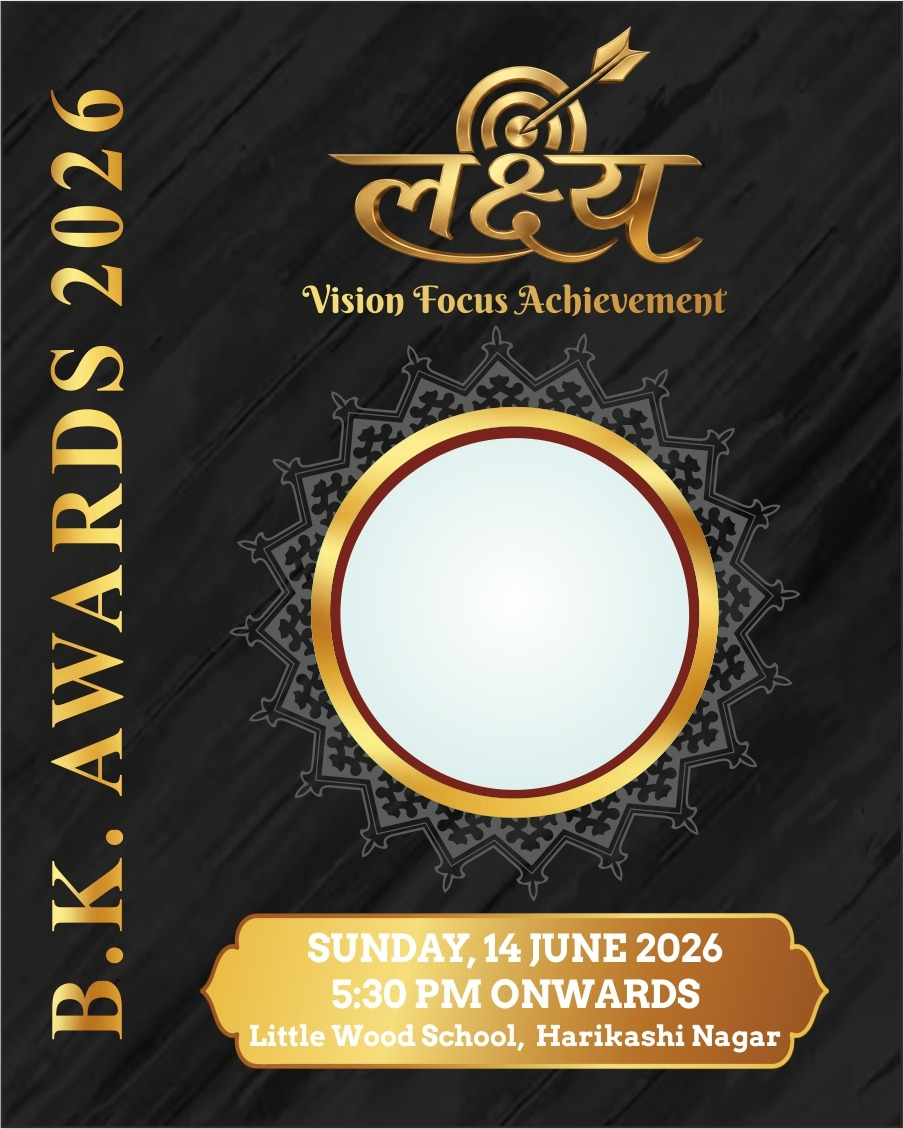
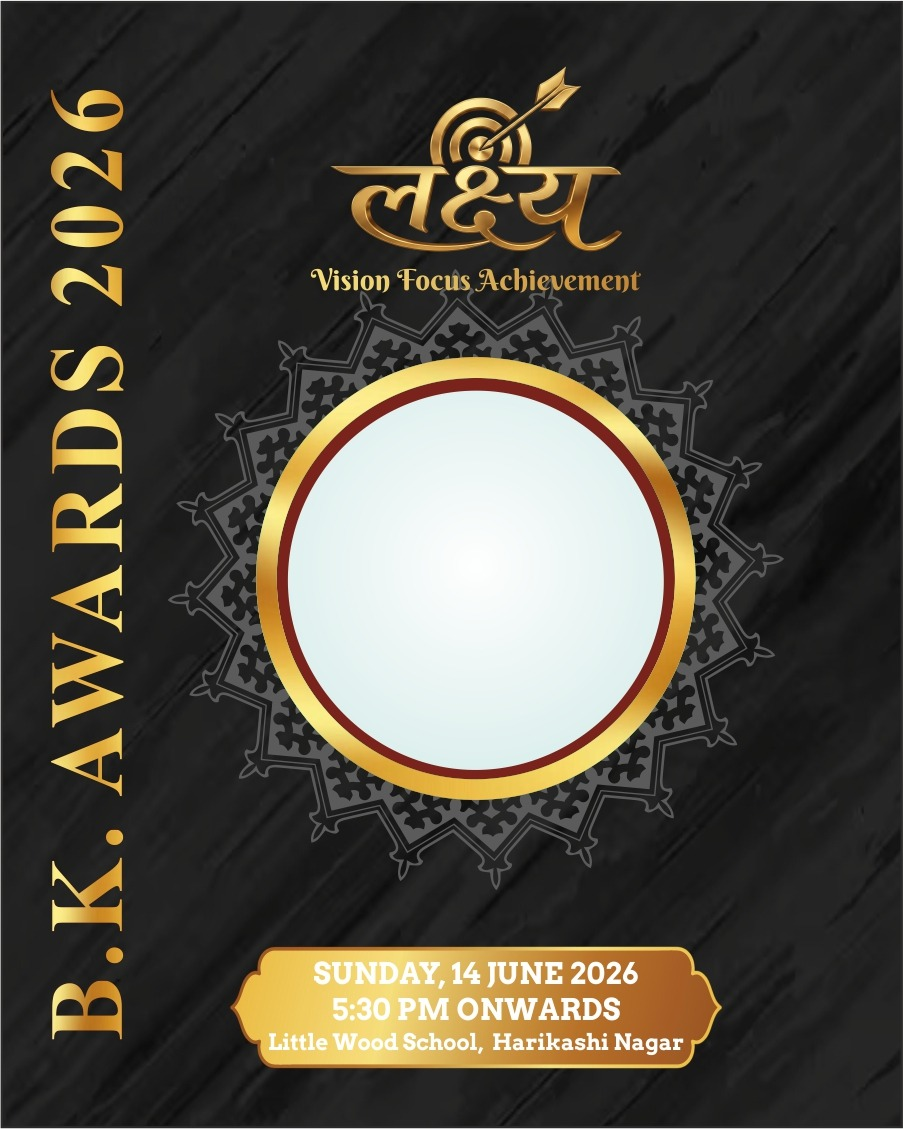
Update to new BK Awards template and tune circle geometry
- Replace bk-awards-2026.jpg with updated higher-quality template
- Adjust circle constants to fit new template's larger, repositioned ring
  (CX 0.53→0.555, CY 0.50→0.515, R 0.27→0.295)

https://claude.ai/code/session_01Ty5rYSQQBdCTj2VvG5YaPz

Changed region(s): [[0.186, 0.031, 0.9302, 0.961]]

diff --git a/dist/assets/index-DNFqWoTc.js b/dist/assets/index-DNFqWoTc.js
@@ -458,4 +458,4 @@ Please confirm my registration. 🙏`),d=`https://wa.me/${rre}?text=${u}`;return
 *Mobile:* ${t}
 
 I have successfully registered as an Anchor for BK Scholar Awards 2026.
-Please confirm my registration. 🙏`),c=`https://wa.me/${gre}?text=${i}`;return l.jsx(me,{sx:{minHeight:{xs:"50vh",md:"58vh"},display:"flex",alignItems:"center",justifyContent:"center",py:2},children:l.jsxs(te,{spacing:2,sx:{width:"100%",maxWidth:520},children:[l.jsxs($t,{elevation:0,sx:{width:"100%",textAlign:"center",borderRadius:3,border:`2px solid ${S0}`,overflow:"hidden",bgcolor:"#fff"},children:[l.jsxs(me,{sx:{background:`linear-gradient(135deg, ${S0}, #9333ea)`,py:2,px:3},children:[l.jsx(os,{sx:{fontSize:44,color:"#fff",mb:.5}}),l.jsx(H,{variant:"h6",fontWeight:800,sx:{color:"#fff"},children:"Registration Confirmed!"}),l.jsx(H,{variant:"body2",sx:{color:"#ede9fe"},children:"BK Scholar Awards 2026 — Anchor"})]}),l.jsxs(me,{sx:{p:3},children:[l.jsxs(te,{spacing:1.2,children:[l.jsxs(me,{sx:{bgcolor:"#f5f3ff",borderRadius:2,p:1.5},children:[l.jsx(H,{variant:"caption",color:"text.secondary",fontWeight:600,children:"ANCHOR NAME"}),l.jsx(H,{variant:"h6",fontWeight:800,sx:{color:"#111"},children:e})]}),r?l.jsxs(me,{sx:{bgcolor:"#faf5ff",borderRadius:2,p:1.2},children:[l.jsx(H,{variant:"caption",color:"text.secondary",fontWeight:600,children:"AGE"}),l.jsx(H,{fontWeight:700,children:r})]}):null,s?l.jsxs(me,{sx:{bgcolor:"#faf5ff",borderRadius:2,p:1.2},children:[l.jsx(H,{variant:"caption",color:"text.secondary",fontWeight:600,children:"LANGUAGE(S)"}),l.jsx(H,{fontWeight:700,children:s})]}):null,l.jsxs(me,{sx:{bgcolor:"#f8f8f8",borderRadius:2,p:1.2},children:[l.jsx(H,{variant:"caption",color:"text.secondary",fontWeight:600,children:"MOBILE"}),l.jsx(H,{fontWeight:700,children:t})]})]}),l.jsx(bn,{sx:{my:2}}),l.jsxs(Tt,{severity:"info",icon:l.jsx(ld,{}),sx:{textAlign:"left",fontSize:"0.82rem",borderRadius:2},children:[l.jsx("strong",{children:"WhatsApp confirmation"})," will be sent to your mobile number shortly. Use the ",l.jsx("em",{children:'"Click here for Confirmation"'})," button below as your proof of registration."]})]})]}),l.jsx(Ce,{fullWidth:!0,variant:"contained",startIcon:l.jsx(ld,{}),component:"a",href:c,target:"_blank",rel:"noopener noreferrer",sx:{py:1.4,borderRadius:2,textTransform:"none",fontWeight:700,fontSize:"1rem",bgcolor:"#25D366","&:hover":{bgcolor:"#1ebe5d"}},children:"Click here for Confirmation"})]})})}function vre({message:e,editToken:t}){const r=t?`${window.location.origin}/anchor-edit/${t}`:null;return l.jsx(To,{in:!0,children:l.jsxs(Tt,{severity:"warning",icon:l.jsx(h4,{}),sx:{borderRadius:2.5},action:r?l.jsx(Ce,{color:"inherit",size:"small",href:r,component:"a",startIcon:l.jsx(_a,{}),children:"Edit"}):null,children:[l.jsx("strong",{children:"Already Registered!"})," ",e]})})}function yre(){const{token:e}=RT(),t=Vi(),r=!!e,[n,a]=w.useState(x1()),[o,s]=w.useState(r),[i,c]=w.useState(!1),[u,d]=w.useState(""),[f,p]=w.useState(!1),[m,g]=w.useState(null),[h,x]=w.useState(null);w.useEffect(()=>{r&&Le.get(`/anchors/public-edit/${e}`).then(v=>{a(mre(v.data||{})),s(!1)}).catch(()=>s(!1))},[r,e]);const y=async()=>{var v,S;c(!0),d(""),x(null);try{const k=hre(n);if(r)await Le.put(`/anchors/public-edit/${e}`,k),p(!0);else{const{data:T}=await Le.post("/anchors/public-register",k);g({anchorName:o2(n)||n.fullName||"",mobile:String(n.mobile||"").replace(/\D/g,""),age:n.age||"",language:n.language||[],editToken:T.editToken||""}),p(!0)}}catch(k){const T=(v=k==null?void 0:k.response)==null?void 0:v.data;if(((S=k==null?void 0:k.response)==null?void 0:S.status)===409&&(T!=null&&T.duplicate)){x({message:T.message||"You have already registered.",editToken:T.editToken||null}),c(!1);return}d((T==null?void 0:T.message)||"Something went wrong. Please try again.")}finally{c(!1)}},b=()=>{a(x1()),d(""),x(null),g(null),p(!1)};return o?l.jsx(xa,{maxWidth:"md",sx:{py:4},children:l.jsx(v_,{variant:"rounded",height:560,sx:{borderRadius:3}})}):r&&f?l.jsxs(me,{sx:{bgcolor:"#faf5ff",minHeight:"100vh",pb:{xs:4,sm:6}},children:[l.jsx(pg,{editMode:!0}),l.jsx(xa,{maxWidth:"sm",sx:{mt:4},children:l.jsxs($t,{elevation:0,sx:{p:4,borderRadius:3,border:"1px solid #d9d9d9",textAlign:"center"},children:[l.jsx(os,{sx:{fontSize:70,color:S0,mb:1.5}}),l.jsx(H,{variant:"h5",fontWeight:800,sx:{mb:1},children:"Changes Saved Successfully"}),l.jsx(H,{color:"text.secondary",sx:{mb:3},children:"Your anchor details have been updated."}),l.jsx(Ce,{variant:"outlined",onClick:()=>t(-1),children:"Go Back"})]})})]}):!r&&f&&m?l.jsxs(me,{sx:{bgcolor:"#faf5ff",minHeight:"100vh",pb:{xs:4,sm:6}},children:[l.jsx(pg,{editMode:!1}),l.jsx(xa,{maxWidth:"sm",sx:{mt:4,px:{xs:1.5,sm:3}},children:l.jsx(xre,{...m,onBackToForm:b})})]}):l.jsxs(me,{sx:{bgcolor:"#faf5ff",minHeight:"100vh",pb:{xs:4,sm:6}},children:[l.jsx(pg,{editMode:r}),l.jsx(xa,{maxWidth:!1,sx:{mt:{xs:1.5,sm:2,md:3},px:{xs:1.25,sm:2,md:3,lg:4,xl:6}},children:l.jsx(me,{sx:{maxWidth:"1100px",mx:"auto"},children:l.jsxs(te,{spacing:2,children:[u?l.jsx(To,{in:!0,children:l.jsx(Tt,{severity:"error",variant:"filled",sx:{borderRadius:2.5,fontSize:"1rem",fontWeight:600,py:1.5},children:u})}):null,h?l.jsx(vre,{message:h.message,editToken:h.editToken}):null,!r&&!f&&!h?l.jsx(Tt,{severity:"info",icon:l.jsx(Di,{}),sx:{borderRadius:2.5,bgcolor:"#fff",border:"1px solid #d9d9d9",color:"#111827"},children:"Badte Kadam Scholar Awards 2026. Anchor Audition."}):null,l.jsx(nt,{sx:{borderRadius:2.5},children:l.jsx(at,{children:l.jsx(pre,{form:n,setForm:a,saving:i,onSubmit:y,editMode:r})})})]})})})]})}const hg="#7c3aed";function bre(){return l.jsx(me,{sx:{minHeight:"100vh",background:"linear-gradient(135deg, #f5f3ff 0%, #ede9fe 100%)",display:"flex",alignItems:"center",justifyContent:"center",p:2},children:l.jsx(xa,{maxWidth:"sm",children:l.jsxs($t,{elevation:4,sx:{borderRadius:4,overflow:"hidden",textAlign:"center"},children:[l.jsx(me,{sx:{bgcolor:hg,py:3,px:4},children:l.jsxs(te,{direction:"row",alignItems:"center",justifyContent:"center",spacing:1.5,children:[l.jsx(dV,{sx:{color:"#fff",fontSize:28}}),l.jsx(H,{variant:"h5",fontWeight:700,color:"#fff",children:"BK Awards – Anchor Registration"})]})}),l.jsxs(me,{sx:{py:6,px:4},children:[l.jsx(lV,{sx:{fontSize:80,color:hg,opacity:.25,mb:2}}),l.jsx(H,{variant:"h4",fontWeight:700,color:hg,gutterBottom:!0,children:"Registration Closed"}),l.jsxs(H,{variant:"body1",color:"text.secondary",sx:{mt:1,lineHeight:1.8},children:["Thank you for your interest in becoming an anchor for BK Awards.",l.jsx("br",{}),"Unfortunately, registrations are currently closed."]}),l.jsx(H,{variant:"body2",color:"text.secondary",sx:{mt:3},children:"Please check back later or contact the organising team for more information."})]}),l.jsx(me,{sx:{bgcolor:"#f5f3ff",py:2,px:4},children:l.jsxs(H,{variant:"caption",color:"text.disabled",children:["BK Awards © ",new Date().getFullYear()]})})]})})})}const yd="#7c3aed";function wre({language:e}){const t=Array.isArray(e)?e:[];return t.length?l.jsx(te,{direction:"row",spacing:.5,flexWrap:"wrap",useFlexGap:!0,children:t.map(r=>l.jsx(Mt,{label:r,size:"small",sx:{bgcolor:"#f5f3ff",color:yd,fontWeight:700,fontSize:"0.72rem"}},r))}):l.jsx(H,{variant:"body2",color:"text.secondary",children:"—"})}function Sre({item:e}){const t=Array.isArray(e.language)?e.language.join(", "):"—",r=e.createdAt?new Date(e.createdAt).toLocaleDateString("en-IN"):"—";return l.jsx(nt,{sx:{height:"100%",borderLeft:`4px solid ${yd}`},children:l.jsx(at,{children:l.jsxs(te,{spacing:1,children:[l.jsxs(te,{direction:"row",justifyContent:"space-between",alignItems:"flex-start",children:[l.jsxs(me,{children:[l.jsx(H,{variant:"h6",fontWeight:800,children:e.fullName||"—"}),l.jsx(H,{variant:"body2",color:"text.secondary",children:e.mobile||"No mobile"})]}),l.jsx(Mt,{label:e.gender||"—",size:"small",sx:{bgcolor:"#faf5ff",color:yd,fontWeight:700}})]}),l.jsxs(te,{direction:"row",spacing:2,children:[l.jsxs(me,{children:[l.jsx(H,{variant:"caption",color:"text.secondary",children:"Age"}),l.jsx(H,{fontWeight:700,children:e.age||"—"})]}),l.jsxs(me,{children:[l.jsx(H,{variant:"caption",color:"text.secondary",children:"Registered"}),l.jsx(H,{fontWeight:700,children:r})]})]}),l.jsxs(me,{children:[l.jsx(H,{variant:"caption",color:"text.secondary",children:"Language(s)"}),l.jsx(H,{fontWeight:600,sx:{fontSize:"0.85rem"},children:t})]})]})})})}function Cre(){const[e,t]=w.useState([]),[r,n]=w.useState(!0),[a,o]=w.useState(""),[s,i]=w.useState("card");w.useEffect(()=>{Le.get("/anchors").then(d=>t(Array.isArray(d.data)?d.data:[])).catch(()=>t([])).finally(()=>n(!1))},[]);const c=w.useMemo(()=>{const d=a.trim().toLowerCase();return d?e.filter(f=>String(f.fullName||"").toLowerCase().includes(d)||String(f.mobile||"").includes(d)||Array.isArray(f.language)&&f.language.some(p=>p.toLowerCase().includes(d))):e},[e,a]),u=c.map(d=>({title:d.fullName,name:d.fullName||"—",gender:d.gender||"—",age:d.age||"—",mobile:d.mobile||"—",language:()=>l.jsx(wre,{language:d.language}),registered:d.createdAt?new Date(d.createdAt).toLocaleDateString("en-IN"):"—"}));return l.jsxs(me,{children:[l.jsx(no,{eyebrow:"Report",title:"Anchors",subtitle:"All registered anchors for Badte Kadam Scholar Awards 2026.",chips:[{label:`${e.length} Registered`},{label:`${c.length} Shown`}]}),l.jsx(nt,{sx:{mb:2,borderTop:`3px solid ${yd}`},children:l.jsx(at,{children:l.jsxs(te,{direction:{xs:"column",md:"row"},spacing:2,justifyContent:"space-between",alignItems:{xs:"stretch",md:"center"},children:[l.jsxs(me,{children:[l.jsxs(te,{direction:"row",spacing:1,alignItems:"center",children:[l.jsx(Di,{sx:{color:yd}}),l.jsx(H,{variant:"h6",fontWeight:800,children:"Anchor Records"})]}),l.jsx(H,{color:"text.secondary",variant:"body2",children:"Search by name, mobile number, or language."})]}),l.jsxs(te,{direction:"row",spacing:1,children:[l.jsx(Me,{size:"small",placeholder:"Search...",value:a,onChange:d=>o(d.target.value),InputProps:{startAdornment:l.jsx(bB,{position:"start",children:l.jsx(wV,{fontSize:"small"})})},sx:{minWidth:220}}),l.jsxs(Po,{exclusive:!0,value:s,onChange:(d,f)=>f&&i(f),size:"small",children:[l.jsx(Tr,{value:"card",children:l.jsx(Io,{fontSize:"small"})}),l.jsx(Tr,{value:"table",children:l.jsx(jo,{fontSize:"small"})})]})]})]})})}),r?l.jsx(H,{color:"text.secondary",sx:{p:2},children:"Loading anchors..."}):s==="card"?l.jsx(me,{sx:{display:"grid",gap:2,gridTemplateColumns:{xs:"1fr",md:"repeat(2, 1fr)",xl:"repeat(3, 1fr)"}},children:c.length?c.map(d=>l.jsx(Sre,{item:d},d._id)):l.jsx(nt,{children:l.jsx(at,{children:l.jsx(H,{color:"text.secondary",children:"No anchors found."})})})}):l.jsx(ao,{columns:[{key:"name",label:"Name"},{key:"gender",label:"Gender"},{key:"age",label:"Age"},{key:"mobile",label:"Mobile"},{key:"language",label:"Language(s)"},{key:"registered",label:"Registered"}],rows:u,mobileTitleKey:"title"})]})}const f3=.53,v1=.5,pl=.27,y1=1.35,ck={small:.03,medium:.044,large:.062};function Vf(e,t,r){return Math.min(r,Math.max(e,t))}async function b1(e){return new Promise((t,r)=>{const n=new Image;n.crossOrigin="anonymous",n.onload=()=>t(n),n.onerror=r,n.src=e})}async function kre(e,t){const r=await b1(e),n=document.createElement("canvas");return n.width=t.width,n.height=t.height,n.getContext("2d").drawImage(r,t.x,t.y,t.width,t.height,0,0,t.width,t.height),new Promise((a,o)=>n.toBlob(s=>s?a(s):o(new Error("toBlob failed")),"image/png"))}async function Ere(e,t,r,n,a,o){const[s,i]=await Promise.all([b1(e),b1(t)]),c=s.naturalWidth,u=s.naturalHeight,d=c*f3,f=u*v1,p=c*pl,m=document.createElement("canvas");m.width=c,m.height=u;const g=m.getContext("2d"),h=p*2*y1,x=d+r.x/100*(p*2),y=f+r.y/100*(p*2);g.save(),g.beginPath(),g.arc(d,f,p,0,Math.PI*2),g.clip(),g.drawImage(i,x-h/2,y-h/2,h,h),g.restore();const b=document.createElement("canvas");b.width=c,b.height=u;const v=b.getContext("2d");if(v.drawImage(s,0,0),v.globalCompositeOperation="destination-out",v.beginPath(),v.arc(d,f,p,0,Math.PI*2),v.fill(),g.drawImage(b,0,0),n.trim()){const S=Math.round(c*(ck[o]??ck.medium));g.font=`bold ${S}px 'Segoe UI', Arial, sans-serif`,g.textAlign="center",g.textBaseline="middle",g.shadowColor="rgba(0,0,0,0.9)",g.shadowBlur=12,g.fillStyle="#FFD700",g.fillText(n,a.x/100*c,a.y/100*u),g.shadowBlur=0}return m}function Tre({open:e,imageSrc:t,onClose:r,onDone:n}){const[a,o]=w.useState({x:0,y:0}),[s,i]=w.useState(1),[c,u]=w.useState(null),[d,f]=w.useState(!1),p=w.useCallback((g,h)=>u(h),[]),m=w.useCallback(async()=>{if(!(!t||!c)){f(!0);try{const g=await kre(t,c);n(URL.createObjectURL(g))}finally{f(!1)}}},[t,c,n]);return l.jsxs(oy,{open:e,onClose:d?void 0:r,fullWidth:!0,maxWidth:"sm",PaperProps:{sx:{bgcolor:"#1a1a2e",color:"#fff",border:"1px solid rgba(255,215,0,0.3)"}},children:[l.jsx(xc,{sx:{color:"#FFD700"},children:"Fit your photo"}),l.jsx(eo,{children:l.jsxs(te,{spacing:2,children:[l.jsx(me,{sx:{position:"relative",width:"100%",height:{xs:300,sm:400},bgcolor:"#111",borderRadius:2,overflow:"hidden"},children:l.jsx(E4,{image:t,crop:a,zoom:s,aspect:1,cropShape:"round",showGrid:!1,onCropChange:o,onZoomChange:i,onCropComplete:p})}),l.jsxs(te,{direction:"row",spacing:1,alignItems:"center",children:[l.jsx(EV,{fontSize:"small",sx:{color:"#FFD700"}}),l.jsx(go,{value:s,min:1,max:3,step:.05,onChange:(g,h)=>i(h),sx:{color:"#FFD700","& .MuiSlider-thumb":{bgcolor:"#FFD700"}}})]})]})}),l.jsxs(e_,{children:[l.jsx(Ce,{onClick:r,disabled:d,sx:{color:"#aaa"},children:"Cancel"}),l.jsx(Ce,{variant:"contained",onClick:m,disabled:d,sx:{bgcolor:"#FFD700",color:"#000","&:hover":{bgcolor:"#FFC300"}},children:d?l.jsx(Ja,{size:20}):"Use photo"})]})]})}function Rre(){const e=w.useRef(null),t=w.useRef(null),r=w.useRef(null),n=w.useRef(null),[a,o]=w.useState(.8),[s,i]=w.useState(null),[c,u]=w.useState(null),[d,f]=w.useState({x:0,y:0}),[p,m]=w.useState(!1),[g,h]=w.useState(""),[x,y]=w.useState(!1),[b,v]=w.useState("medium"),[S,k]=w.useState(null),[T,E]=w.useState(!1),R=J=>{const{naturalWidth:fe,naturalHeight:ce}=J.target;ce>0&&o(fe/ce)},_=()=>{var J;return(J=e.current)==null?void 0:J.click()},P=J=>{var se;const fe=(se=J.target.files)==null?void 0:se[0];if(!fe)return;const ce=new FileReader;ce.onload=()=>{i(ce.result),m(!0)},ce.readAsDataURL(fe),J.target.value=""},A=J=>{c&&URL.revokeObjectURL(c),u(J),f({x:0,y:0}),m(!1),i(null)},C=a,j=(f3-pl)*100,O=(v1-pl*C)*100,U=pl*2*100,L=(v1+pl*C+.05*C)*100,Y=(S==null?void 0:S.x)??50,q=(S==null?void 0:S.y)??L,M=J=>{J.preventDefault(),J.stopPropagation(),J.currentTarget.setPointerCapture(J.pointerId),r.current={startX:J.clientX,startY:J.clientY,origX:d.x,origY:d.y}},ne=J=>{if(!r.current||!t.current)return;const fe=t.current.offsetWidth*pl*2,ce=(J.clientX-r.current.startX)/fe*100,se=(J.clientY-r.current.startY)/fe*100;f({x:Vf(-18,r.current.origX+ce,18),y:Vf(-18,r.current.origY+se,18)})},ee=()=>{r.current=null},F=J=>{var ce;J.preventDefault(),J.currentTarget.setPointerCapture(J.pointerId),(ce=t.current)!=null&&ce.getBoundingClientRect()&&(n.current={startX:J.clientX,startY:J.clientY,origX:Y,origY:q})},K=J=>{if(!n.current||!t.current)return;const fe=t.current.getBoundingClientRect(),ce=(J.clientX-n.current.startX)/fe.width*100,se=(J.clientY-n.current.startY)/fe.height*100;k({x:Vf(8,n.current.origX+ce,92),y:Vf(5,n.current.origY+se,95)})},N=()=>{n.current=null},z=async()=>{E(!0);try{const J=await Ere("/bk-awards-2026.jpg",c,d,g,{x:Y,y:q},b),fe=document.createElement("a");fe.href=J.toDataURL("image/jpeg",.95),fe.download="bk-awards-2026.jpg",fe.click()}finally{E(!1)}},Q={small:{xs:"2.5vw",sm:"0.85rem"},medium:{xs:"3.8vw",sm:"1.1rem"},large:{xs:"5.5vw",sm:"1.6rem"}};return l.jsxs(me,{sx:{minHeight:"100vh",bgcolor:"#0d0d1a",pb:4},children:[l.jsx(me,{sx:{background:"linear-gradient(135deg, #1a1200 0%, #2a1e00 50%, #1a1200 100%)",borderBottom:"2px solid #B8860B",py:2,mb:2},children:l.jsxs(xa,{maxWidth:"sm",children:[l.jsx(H,{variant:"h5",align:"center",sx:{color:"#FFD700",fontWeight:800,letterSpacing:3,textShadow:"0 2px 12px rgba(255,215,0,0.4)",fontFamily:"serif"},children:"BK AWARDS 2026"}),l.jsx(H,{variant:"caption",display:"block",align:"center",sx:{color:"#B8860B",letterSpacing:2,mt:.3},children:"Vision · Focus · Achievement"})]})}),l.jsxs(xa,{maxWidth:"sm",children:[l.jsxs(me,{ref:t,sx:{position:"relative",width:"100%",borderRadius:3,overflow:"hidden",boxShadow:"0 12px 40px rgba(0,0,0,0.8), 0 0 0 1px rgba(255,215,0,0.2)",userSelect:"none"},children:[l.jsx("img",{src:"/bk-awards-2026.jpg",alt:"BK Awards template",onLoad:R,style:{display:"block",width:"100%",height:"auto"},draggable:!1}),l.jsx(me,{sx:{position:"absolute",left:`${j}%`,top:`${O}%`,width:`${U}%`,aspectRatio:"1",borderRadius:"50%",overflow:"hidden"},children:c?l.jsxs(l.Fragment,{children:[l.jsx(me,{sx:{position:"absolute",inset:0,overflow:"hidden",borderRadius:"50%"},children:l.jsx("img",{src:c,alt:"your photo",style:{width:`${y1*100}%`,height:`${y1*100}%`,objectFit:"cover",position:"absolute",left:`${50+d.x}%`,top:`${50+d.y}%`,transform:"translate(-50%, -50%)",pointerEvents:"none"}})}),l.jsx(me,{onPointerDown:M,onPointerMove:ne,onPointerUp:ee,sx:{position:"absolute",inset:0,borderRadius:"50%",cursor:r.current?"grabbing":"grab",touchAction:"none","&:hover .move-hint":{opacity:1}},children:l.jsxs(me,{className:"move-hint",sx:{position:"absolute",inset:0,borderRadius:"50%",display:"flex",flexDirection:"column",alignItems:"center",justifyContent:"center",bgcolor:"rgba(0,0,0,0.35)",opacity:0,transition:"opacity 0.2s",color:"#FFD700",gap:.3},children:[l.jsx(hV,{sx:{fontSize:"1.6rem"}}),l.jsx(H,{variant:"caption",sx:{fontSize:"0.5rem",fontWeight:700,color:"#FFD700"},children:"Drag to reposition"})]})}),l.jsxs(me,{onClick:_,sx:{position:"absolute",bottom:"8%",left:"50%",transform:"translateX(-50%)",bgcolor:"rgba(0,0,0,0.65)",border:"1px solid rgba(255,215,0,0.6)",borderRadius:5,px:.8,py:.3,cursor:"pointer",display:"flex",alignItems:"center",gap:.3,"&:hover":{bgcolor:"rgba(0,0,0,0.85)"},zIndex:2},children:[l.jsx(PS,{sx:{fontSize:"0.75rem",color:"#FFD700"}}),l.jsx(H,{variant:"caption",sx:{fontSize:"0.5rem",color:"#FFD700",fontWeight:600,whiteSpace:"nowrap"},children:"Change"})]})]}):l.jsxs(me,{onClick:_,sx:{width:"100%",height:"100%",borderRadius:"50%",display:"flex",flexDirection:"column",alignItems:"center",justifyContent:"center",cursor:"pointer",color:"#fff",gap:.5,bgcolor:"rgba(0,0,0,0.4)",border:"2px dashed rgba(255,215,0,0.5)",transition:"background 0.2s","&:hover":{bgcolor:"rgba(0,0,0,0.6)"}},children:[l.jsx(PS,{sx:{fontSize:"2.2rem",color:"#FFD700",opacity:.9}}),l.jsx(H,{variant:"caption",sx:{fontWeight:700,fontSize:"0.55rem",color:"#FFD700",textAlign:"center",px:.5,lineHeight:1.3},children:"Tap to add photo"})]})}),x&&g.trim()&&l.jsx(me,{onPointerDown:F,onPointerMove:K,onPointerUp:N,sx:{position:"absolute",left:`${Y}%`,top:`${q}%`,transform:"translate(-50%, -50%)",cursor:"grab","&:active":{cursor:"grabbing"},display:"flex",alignItems:"center",gap:.4,px:1,py:.4,borderRadius:1,bgcolor:"rgba(0,0,0,0.2)",border:"1px dashed rgba(255,215,0,0.5)",touchAction:"none"},children:l.jsx(H,{sx:{color:"#FFD700",fontWeight:800,fontSize:Q[b],textShadow:"0 2px 10px rgba(0,0,0,0.95)",letterSpacing:1,whiteSpace:"nowrap",fontFamily:"serif"},children:g})})]}),l.jsxs(me,{sx:{mt:2,p:1.5,borderRadius:2,bgcolor:"rgba(255,215,0,0.05)",border:"1px solid rgba(255,215,0,0.15)"},children:[l.jsxs(te,{direction:"row",spacing:1,alignItems:"center",children:[l.jsx(Si,{onClick:()=>y(J=>!J),size:"small",sx:{color:x?"#FFD700":"#666",border:"1px solid",borderColor:x?"#FFD700":"#444",borderRadius:1.5,p:.8,flexShrink:0},children:l.jsx(kV,{fontSize:"small"})}),x&&l.jsxs(l.Fragment,{children:[l.jsx(Me,{size:"small",placeholder:"Your name / text…",value:g,onChange:J=>h(J.target.value),inputProps:{maxLength:60},sx:{flex:1,"& .MuiOutlinedInput-root":{color:"#fff","& fieldset":{borderColor:"rgba(255,215,0,0.4)"},"&:hover fieldset":{borderColor:"#FFD700"},"&.Mui-focused fieldset":{borderColor:"#FFD700"}},"& input::placeholder":{color:"#555"}}}),l.jsx(xL,{size:"small",children:[["small","S"],["medium","M"],["large","L"]].map(([J,fe])=>l.jsx(Ce,{onClick:()=>v(J),variant:b===J?"contained":"outlined",sx:b===J?{bgcolor:"#FFD700",color:"#000",fontWeight:700,borderColor:"#FFD700",minWidth:30,px:.5,"&:hover":{bgcolor:"#FFC300"}}:{borderColor:"#444",color:"#666",minWidth:30,px:.5,"&:hover":{borderColor:"#FFD700",color:"#FFD700"}},children:fe},J))}),l.jsx(Si,{size:"small",onClick:()=>{y(!1),h("")},sx:{color:"#555",border:"1px solid #333",borderRadius:1.5,p:.8,flexShrink:0},children:l.jsx(aV,{fontSize:"small"})})]})]}),l.jsx(Ce,{variant:"contained",fullWidth:!0,size:"large",startIcon:T?l.jsx(Ja,{size:18,color:"inherit"}):l.jsx(l0,{}),disabled:!c||T,onClick:z,sx:{mt:1.5,background:c?"linear-gradient(135deg, #B8860B 0%, #FFD700 50%, #B8860B 100%)":void 0,color:"#000",fontWeight:800,letterSpacing:1,fontSize:"1rem","&:hover":{background:"linear-gradient(135deg, #FFD700 0%, #FFC300 50%, #FFD700 100%)"},"&:disabled":{bgcolor:"#222",color:"#444"}},children:T?"Preparing…":"Download Photo"})]}),c&&l.jsx(H,{variant:"caption",align:"center",display:"block",sx:{mt:1.5,color:"#444",letterSpacing:.5},children:"Drag inside the circle to reposition · Drag text label to move it"})]}),l.jsx("input",{ref:e,type:"file",accept:"image/*",style:{display:"none"},onChange:P}),l.jsx(Tre,{open:p,imageSrc:s,onClose:()=>{m(!1),i(null)},onDone:A})]})}function _re({children:e}){return l.jsx(KH,{children:e})}const Are=[["/",l.jsx(RV,{}),cr.dashboard],["/students",l.jsx(bG,{}),cr.students],["/anchors",l.jsx(Cre,{}),cr.anchors],["/categories",l.jsx(CG,{}),cr.categories],["/stage",l.jsx(EG,{}),cr.stage],["/budget",l.jsx(RG,{}),cr.budget],["/responsibilities",l.jsx(AG,{}),cr.responsibilities],["/notifications",l.jsx(PG,{}),cr.notifications],["/admin",l.jsx(Mte,{}),cr.admin],["/whatsapp",l.jsx(Jte,{}),cr.whatsapp],["/super-admin/settings",l.jsx(tre,{}),cr.superAdminSettings]];function Pre(){return l.jsxs(G6,{theme:eV,children:[l.jsx(WL,{}),l.jsx(PW,{children:l.jsx(EH,{children:l.jsxs(zj,{children:[l.jsxs(Fj,{children:[l.jsx(Bo,{path:"/login",element:l.jsx(rV,{})}),l.jsx(Bo,{path:"/student-register",element:l.jsx(ok,{})}),l.jsx(Bo,{path:"/student-edit/:token",element:l.jsx(ok,{})}),l.jsx(Bo,{path:"/volunteer-register",element:l.jsx(lre,{})}),l.jsx(Bo,{path:"/anchor-register",element:l.jsx(bre,{})}),l.jsx(Bo,{path:"/anchor-edit/:token",element:l.jsx(yre,{})}),l.jsx(Bo,{path:"/photo-template",element:l.jsx(Rre,{})}),Are.map(([e,t,r])=>l.jsx(Bo,{path:e,element:l.jsx(RH,{permission:r,children:l.jsx(_re,{children:t})})},e))]}),l.jsx(JH,{})]})})})]})}YH();mg.createRoot(document.getElementById("root")).render(l.jsx(za.StrictMode,{children:l.jsx(Pre,{})}));
+Please confirm my registration. 🙏`),c=`https://wa.me/${gre}?text=${i}`;return l.jsx(me,{sx:{minHeight:{xs:"50vh",md:"58vh"},display:"flex",alignItems:"center",justifyContent:"center",py:2},children:l.jsxs(te,{spacing:2,sx:{width:"100%",maxWidth:520},children:[l.jsxs($t,{elevation:0,sx:{width:"100%",textAlign:"center",borderRadius:3,border:`2px solid ${S0}`,overflow:"hidden",bgcolor:"#fff"},children:[l.jsxs(me,{sx:{background:`linear-gradient(135deg, ${S0}, #9333ea)`,py:2,px:3},children:[l.jsx(os,{sx:{fontSize:44,color:"#fff",mb:.5}}),l.jsx(H,{variant:"h6",fontWeight:800,sx:{color:"#fff"},children:"Registration Confirmed!"}),l.jsx(H,{variant:"body2",sx:{color:"#ede9fe"},children:"BK Scholar Awards 2026 — Anchor"})]}),l.jsxs(me,{sx:{p:3},children:[l.jsxs(te,{spacing:1.2,children:[l.jsxs(me,{sx:{bgcolor:"#f5f3ff",borderRadius:2,p:1.5},children:[l.jsx(H,{variant:"caption",color:"text.secondary",fontWeight:600,children:"ANCHOR NAME"}),l.jsx(H,{variant:"h6",fontWeight:800,sx:{color:"#111"},children:e})]}),r?l.jsxs(me,{sx:{bgcolor:"#faf5ff",borderRadius:2,p:1.2},children:[l.jsx(H,{variant:"caption",color:"text.secondary",fontWeight:600,children:"AGE"}),l.jsx(H,{fontWeight:700,children:r})]}):null,s?l.jsxs(me,{sx:{bgcolor:"#faf5ff",borderRadius:2,p:1.2},children:[l.jsx(H,{variant:"caption",color:"text.secondary",fontWeight:600,children:"LANGUAGE(S)"}),l.jsx(H,{fontWeight:700,children:s})]}):null,l.jsxs(me,{sx:{bgcolor:"#f8f8f8",borderRadius:2,p:1.2},children:[l.jsx(H,{variant:"caption",color:"text.secondary",fontWeight:600,children:"MOBILE"}),l.jsx(H,{fontWeight:700,children:t})]})]}),l.jsx(bn,{sx:{my:2}}),l.jsxs(Tt,{severity:"info",icon:l.jsx(ld,{}),sx:{textAlign:"left",fontSize:"0.82rem",borderRadius:2},children:[l.jsx("strong",{children:"WhatsApp confirmation"})," will be sent to your mobile number shortly. Use the ",l.jsx("em",{children:'"Click here for Confirmation"'})," button below as your proof of registration."]})]})]}),l.jsx(Ce,{fullWidth:!0,variant:"contained",startIcon:l.jsx(ld,{}),component:"a",href:c,target:"_blank",rel:"noopener noreferrer",sx:{py:1.4,borderRadius:2,textTransform:"none",fontWeight:700,fontSize:"1rem",bgcolor:"#25D366","&:hover":{bgcolor:"#1ebe5d"}},children:"Click here for Confirmation"})]})})}function vre({message:e,editToken:t}){const r=t?`${window.location.origin}/anchor-edit/${t}`:null;return l.jsx(To,{in:!0,children:l.jsxs(Tt,{severity:"warning",icon:l.jsx(h4,{}),sx:{borderRadius:2.5},action:r?l.jsx(Ce,{color:"inherit",size:"small",href:r,component:"a",startIcon:l.jsx(_a,{}),children:"Edit"}):null,children:[l.jsx("strong",{children:"Already Registered!"})," ",e]})})}function yre(){const{token:e}=RT(),t=Vi(),r=!!e,[n,a]=w.useState(x1()),[o,s]=w.useState(r),[i,c]=w.useState(!1),[u,d]=w.useState(""),[f,p]=w.useState(!1),[m,g]=w.useState(null),[h,x]=w.useState(null);w.useEffect(()=>{r&&Le.get(`/anchors/public-edit/${e}`).then(v=>{a(mre(v.data||{})),s(!1)}).catch(()=>s(!1))},[r,e]);const y=async()=>{var v,S;c(!0),d(""),x(null);try{const k=hre(n);if(r)await Le.put(`/anchors/public-edit/${e}`,k),p(!0);else{const{data:T}=await Le.post("/anchors/public-register",k);g({anchorName:o2(n)||n.fullName||"",mobile:String(n.mobile||"").replace(/\D/g,""),age:n.age||"",language:n.language||[],editToken:T.editToken||""}),p(!0)}}catch(k){const T=(v=k==null?void 0:k.response)==null?void 0:v.data;if(((S=k==null?void 0:k.response)==null?void 0:S.status)===409&&(T!=null&&T.duplicate)){x({message:T.message||"You have already registered.",editToken:T.editToken||null}),c(!1);return}d((T==null?void 0:T.message)||"Something went wrong. Please try again.")}finally{c(!1)}},b=()=>{a(x1()),d(""),x(null),g(null),p(!1)};return o?l.jsx(xa,{maxWidth:"md",sx:{py:4},children:l.jsx(v_,{variant:"rounded",height:560,sx:{borderRadius:3}})}):r&&f?l.jsxs(me,{sx:{bgcolor:"#faf5ff",minHeight:"100vh",pb:{xs:4,sm:6}},children:[l.jsx(pg,{editMode:!0}),l.jsx(xa,{maxWidth:"sm",sx:{mt:4},children:l.jsxs($t,{elevation:0,sx:{p:4,borderRadius:3,border:"1px solid #d9d9d9",textAlign:"center"},children:[l.jsx(os,{sx:{fontSize:70,color:S0,mb:1.5}}),l.jsx(H,{variant:"h5",fontWeight:800,sx:{mb:1},children:"Changes Saved Successfully"}),l.jsx(H,{color:"text.secondary",sx:{mb:3},children:"Your anchor details have been updated."}),l.jsx(Ce,{variant:"outlined",onClick:()=>t(-1),children:"Go Back"})]})})]}):!r&&f&&m?l.jsxs(me,{sx:{bgcolor:"#faf5ff",minHeight:"100vh",pb:{xs:4,sm:6}},children:[l.jsx(pg,{editMode:!1}),l.jsx(xa,{maxWidth:"sm",sx:{mt:4,px:{xs:1.5,sm:3}},children:l.jsx(xre,{...m,onBackToForm:b})})]}):l.jsxs(me,{sx:{bgcolor:"#faf5ff",minHeight:"100vh",pb:{xs:4,sm:6}},children:[l.jsx(pg,{editMode:r}),l.jsx(xa,{maxWidth:!1,sx:{mt:{xs:1.5,sm:2,md:3},px:{xs:1.25,sm:2,md:3,lg:4,xl:6}},children:l.jsx(me,{sx:{maxWidth:"1100px",mx:"auto"},children:l.jsxs(te,{spacing:2,children:[u?l.jsx(To,{in:!0,children:l.jsx(Tt,{severity:"error",variant:"filled",sx:{borderRadius:2.5,fontSize:"1rem",fontWeight:600,py:1.5},children:u})}):null,h?l.jsx(vre,{message:h.message,editToken:h.editToken}):null,!r&&!f&&!h?l.jsx(Tt,{severity:"info",icon:l.jsx(Di,{}),sx:{borderRadius:2.5,bgcolor:"#fff",border:"1px solid #d9d9d9",color:"#111827"},children:"Badte Kadam Scholar Awards 2026. Anchor Audition."}):null,l.jsx(nt,{sx:{borderRadius:2.5},children:l.jsx(at,{children:l.jsx(pre,{form:n,setForm:a,saving:i,onSubmit:y,editMode:r})})})]})})})]})}const hg="#7c3aed";function bre(){return l.jsx(me,{sx:{minHeight:"100vh",background:"linear-gradient(135deg, #f5f3ff 0%, #ede9fe 100%)",display:"flex",alignItems:"center",justifyContent:"center",p:2},children:l.jsx(xa,{maxWidth:"sm",children:l.jsxs($t,{elevation:4,sx:{borderRadius:4,overflow:"hidden",textAlign:"center"},children:[l.jsx(me,{sx:{bgcolor:hg,py:3,px:4},children:l.jsxs(te,{direction:"row",alignItems:"center",justifyContent:"center",spacing:1.5,children:[l.jsx(dV,{sx:{color:"#fff",fontSize:28}}),l.jsx(H,{variant:"h5",fontWeight:700,color:"#fff",children:"BK Awards – Anchor Registration"})]})}),l.jsxs(me,{sx:{py:6,px:4},children:[l.jsx(lV,{sx:{fontSize:80,color:hg,opacity:.25,mb:2}}),l.jsx(H,{variant:"h4",fontWeight:700,color:hg,gutterBottom:!0,children:"Registration Closed"}),l.jsxs(H,{variant:"body1",color:"text.secondary",sx:{mt:1,lineHeight:1.8},children:["Thank you for your interest in becoming an anchor for BK Awards.",l.jsx("br",{}),"Unfortunately, registrations are currently closed."]}),l.jsx(H,{variant:"body2",color:"text.secondary",sx:{mt:3},children:"Please check back later or contact the organising team for more information."})]}),l.jsx(me,{sx:{bgcolor:"#f5f3ff",py:2,px:4},children:l.jsxs(H,{variant:"caption",color:"text.disabled",children:["BK Awards © ",new Date().getFullYear()]})})]})})})}const yd="#7c3aed";function wre({language:e}){const t=Array.isArray(e)?e:[];return t.length?l.jsx(te,{direction:"row",spacing:.5,flexWrap:"wrap",useFlexGap:!0,children:t.map(r=>l.jsx(Mt,{label:r,size:"small",sx:{bgcolor:"#f5f3ff",color:yd,fontWeight:700,fontSize:"0.72rem"}},r))}):l.jsx(H,{variant:"body2",color:"text.secondary",children:"—"})}function Sre({item:e}){const t=Array.isArray(e.language)?e.language.join(", "):"—",r=e.createdAt?new Date(e.createdAt).toLocaleDateString("en-IN"):"—";return l.jsx(nt,{sx:{height:"100%",borderLeft:`4px solid ${yd}`},children:l.jsx(at,{children:l.jsxs(te,{spacing:1,children:[l.jsxs(te,{direction:"row",justifyContent:"space-between",alignItems:"flex-start",children:[l.jsxs(me,{children:[l.jsx(H,{variant:"h6",fontWeight:800,children:e.fullName||"—"}),l.jsx(H,{variant:"body2",color:"text.secondary",children:e.mobile||"No mobile"})]}),l.jsx(Mt,{label:e.gender||"—",size:"small",sx:{bgcolor:"#faf5ff",color:yd,fontWeight:700}})]}),l.jsxs(te,{direction:"row",spacing:2,children:[l.jsxs(me,{children:[l.jsx(H,{variant:"caption",color:"text.secondary",children:"Age"}),l.jsx(H,{fontWeight:700,children:e.age||"—"})]}),l.jsxs(me,{children:[l.jsx(H,{variant:"caption",color:"text.secondary",children:"Registered"}),l.jsx(H,{fontWeight:700,children:r})]})]}),l.jsxs(me,{children:[l.jsx(H,{variant:"caption",color:"text.secondary",children:"Language(s)"}),l.jsx(H,{fontWeight:600,sx:{fontSize:"0.85rem"},children:t})]})]})})})}function Cre(){const[e,t]=w.useState([]),[r,n]=w.useState(!0),[a,o]=w.useState(""),[s,i]=w.useState("card");w.useEffect(()=>{Le.get("/anchors").then(d=>t(Array.isArray(d.data)?d.data:[])).catch(()=>t([])).finally(()=>n(!1))},[]);const c=w.useMemo(()=>{const d=a.trim().toLowerCase();return d?e.filter(f=>String(f.fullName||"").toLowerCase().includes(d)||String(f.mobile||"").includes(d)||Array.isArray(f.language)&&f.language.some(p=>p.toLowerCase().includes(d))):e},[e,a]),u=c.map(d=>({title:d.fullName,name:d.fullName||"—",gender:d.gender||"—",age:d.age||"—",mobile:d.mobile||"—",language:()=>l.jsx(wre,{language:d.language}),registered:d.createdAt?new Date(d.createdAt).toLocaleDateString("en-IN"):"—"}));return l.jsxs(me,{children:[l.jsx(no,{eyebrow:"Report",title:"Anchors",subtitle:"All registered anchors for Badte Kadam Scholar Awards 2026.",chips:[{label:`${e.length} Registered`},{label:`${c.length} Shown`}]}),l.jsx(nt,{sx:{mb:2,borderTop:`3px solid ${yd}`},children:l.jsx(at,{children:l.jsxs(te,{direction:{xs:"column",md:"row"},spacing:2,justifyContent:"space-between",alignItems:{xs:"stretch",md:"center"},children:[l.jsxs(me,{children:[l.jsxs(te,{direction:"row",spacing:1,alignItems:"center",children:[l.jsx(Di,{sx:{color:yd}}),l.jsx(H,{variant:"h6",fontWeight:800,children:"Anchor Records"})]}),l.jsx(H,{color:"text.secondary",variant:"body2",children:"Search by name, mobile number, or language."})]}),l.jsxs(te,{direction:"row",spacing:1,children:[l.jsx(Me,{size:"small",placeholder:"Search...",value:a,onChange:d=>o(d.target.value),InputProps:{startAdornment:l.jsx(bB,{position:"start",children:l.jsx(wV,{fontSize:"small"})})},sx:{minWidth:220}}),l.jsxs(Po,{exclusive:!0,value:s,onChange:(d,f)=>f&&i(f),size:"small",children:[l.jsx(Tr,{value:"card",children:l.jsx(Io,{fontSize:"small"})}),l.jsx(Tr,{value:"table",children:l.jsx(jo,{fontSize:"small"})})]})]})]})})}),r?l.jsx(H,{color:"text.secondary",sx:{p:2},children:"Loading anchors..."}):s==="card"?l.jsx(me,{sx:{display:"grid",gap:2,gridTemplateColumns:{xs:"1fr",md:"repeat(2, 1fr)",xl:"repeat(3, 1fr)"}},children:c.length?c.map(d=>l.jsx(Sre,{item:d},d._id)):l.jsx(nt,{children:l.jsx(at,{children:l.jsx(H,{color:"text.secondary",children:"No anchors found."})})})}):l.jsx(ao,{columns:[{key:"name",label:"Name"},{key:"gender",label:"Gender"},{key:"age",label:"Age"},{key:"mobile",label:"Mobile"},{key:"language",label:"Language(s)"},{key:"registered",label:"Registered"}],rows:u,mobileTitleKey:"title"})]})}const f3=.555,v1=.515,pl=.295,y1=1.35,ck={small:.03,medium:.044,large:.062};function Vf(e,t,r){return Math.min(r,Math.max(e,t))}async function b1(e){return new Promise((t,r)=>{const n=new Image;n.crossOrigin="anonymous",n.onload=()=>t(n),n.onerror=r,n.src=e})}async function kre(e,t){const r=await b1(e),n=document.createElement("canvas");return n.width=t.width,n.height=t.height,n.getContext("2d").drawImage(r,t.x,t.y,t.width,t.height,0,0,t.width,t.height),new Promise((a,o)=>n.toBlob(s=>s?a(s):o(new Error("toBlob failed")),"image/png"))}async function Ere(e,t,r,n,a,o){const[s,i]=await Promise.all([b1(e),b1(t)]),c=s.naturalWidth,u=s.naturalHeight,d=c*f3,f=u*v1,p=c*pl,m=document.createElement("canvas");m.width=c,m.height=u;const g=m.getContext("2d"),h=p*2*y1,x=d+r.x/100*(p*2),y=f+r.y/100*(p*2);g.save(),g.beginPath(),g.arc(d,f,p,0,Math.PI*2),g.clip(),g.drawImage(i,x-h/2,y-h/2,h,h),g.restore();const b=document.createElement("canvas");b.width=c,b.height=u;const v=b.getContext("2d");if(v.drawImage(s,0,0),v.globalCompositeOperation="destination-out",v.beginPath(),v.arc(d,f,p,0,Math.PI*2),v.fill(),g.drawImage(b,0,0),n.trim()){const S=Math.round(c*(ck[o]??ck.medium));g.font=`bold ${S}px 'Segoe UI', Arial, sans-serif`,g.textAlign="center",g.textBaseline="middle",g.shadowColor="rgba(0,0,0,0.9)",g.shadowBlur=12,g.fillStyle="#FFD700",g.fillText(n,a.x/100*c,a.y/100*u),g.shadowBlur=0}return m}function Tre({open:e,imageSrc:t,onClose:r,onDone:n}){const[a,o]=w.useState({x:0,y:0}),[s,i]=w.useState(1),[c,u]=w.useState(null),[d,f]=w.useState(!1),p=w.useCallback((g,h)=>u(h),[]),m=w.useCallback(async()=>{if(!(!t||!c)){f(!0);try{const g=await kre(t,c);n(URL.createObjectURL(g))}finally{f(!1)}}},[t,c,n]);return l.jsxs(oy,{open:e,onClose:d?void 0:r,fullWidth:!0,maxWidth:"sm",PaperProps:{sx:{bgcolor:"#1a1a2e",color:"#fff",border:"1px solid rgba(255,215,0,0.3)"}},children:[l.jsx(xc,{sx:{color:"#FFD700"},children:"Fit your photo"}),l.jsx(eo,{children:l.jsxs(te,{spacing:2,children:[l.jsx(me,{sx:{position:"relative",width:"100%",height:{xs:300,sm:400},bgcolor:"#111",borderRadius:2,overflow:"hidden"},children:l.jsx(E4,{image:t,crop:a,zoom:s,aspect:1,cropShape:"round",showGrid:!1,onCropChange:o,onZoomChange:i,onCropComplete:p})}),l.jsxs(te,{direction:"row",spacing:1,alignItems:"center",children:[l.jsx(EV,{fontSize:"small",sx:{color:"#FFD700"}}),l.jsx(go,{value:s,min:1,max:3,step:.05,onChange:(g,h)=>i(h),sx:{color:"#FFD700","& .MuiSlider-thumb":{bgcolor:"#FFD700"}}})]})]})}),l.jsxs(e_,{children:[l.jsx(Ce,{onClick:r,disabled:d,sx:{color:"#aaa"},children:"Cancel"}),l.jsx(Ce,{variant:"contained",onClick:m,disabled:d,sx:{bgcolor:"#FFD700",color:"#000","&:hover":{bgcolor:"#FFC300"}},children:d?l.jsx(Ja,{size:20}):"Use photo"})]})]})}function Rre(){const e=w.useRef(null),t=w.useRef(null),r=w.useRef(null),n=w.useRef(null),[a,o]=w.useState(.8),[s,i]=w.useState(null),[c,u]=w.useState(null),[d,f]=w.useState({x:0,y:0}),[p,m]=w.useState(!1),[g,h]=w.useState(""),[x,y]=w.useState(!1),[b,v]=w.useState("medium"),[S,k]=w.useState(null),[T,E]=w.useState(!1),R=J=>{const{naturalWidth:fe,naturalHeight:ce}=J.target;ce>0&&o(fe/ce)},_=()=>{var J;return(J=e.current)==null?void 0:J.click()},P=J=>{var se;const fe=(se=J.target.files)==null?void 0:se[0];if(!fe)return;const ce=new FileReader;ce.onload=()=>{i(ce.result),m(!0)},ce.readAsDataURL(fe),J.target.value=""},A=J=>{c&&URL.revokeObjectURL(c),u(J),f({x:0,y:0}),m(!1),i(null)},C=a,j=(f3-pl)*100,O=(v1-pl*C)*100,U=pl*2*100,L=(v1+pl*C+.05*C)*100,Y=(S==null?void 0:S.x)??50,q=(S==null?void 0:S.y)??L,M=J=>{J.preventDefault(),J.stopPropagation(),J.currentTarget.setPointerCapture(J.pointerId),r.current={startX:J.clientX,startY:J.clientY,origX:d.x,origY:d.y}},ne=J=>{if(!r.current||!t.current)return;const fe=t.current.offsetWidth*pl*2,ce=(J.clientX-r.current.startX)/fe*100,se=(J.clientY-r.current.startY)/fe*100;f({x:Vf(-18,r.current.origX+ce,18),y:Vf(-18,r.current.origY+se,18)})},ee=()=>{r.current=null},F=J=>{var ce;J.preventDefault(),J.currentTarget.setPointerCapture(J.pointerId),(ce=t.current)!=null&&ce.getBoundingClientRect()&&(n.current={startX:J.clientX,startY:J.clientY,origX:Y,origY:q})},K=J=>{if(!n.current||!t.current)return;const fe=t.current.getBoundingClientRect(),ce=(J.clientX-n.current.startX)/fe.width*100,se=(J.clientY-n.current.startY)/fe.height*100;k({x:Vf(8,n.current.origX+ce,92),y:Vf(5,n.current.origY+se,95)})},N=()=>{n.current=null},z=async()=>{E(!0);try{const J=await Ere("/bk-awards-2026.jpg",c,d,g,{x:Y,y:q},b),fe=document.createElement("a");fe.href=J.toDataURL("image/jpeg",.95),fe.download="bk-awards-2026.jpg",fe.click()}finally{E(!1)}},Q={small:{xs:"2.5vw",sm:"0.85rem"},medium:{xs:"3.8vw",sm:"1.1rem"},large:{xs:"5.5vw",sm:"1.6rem"}};return l.jsxs(me,{sx:{minHeight:"100vh",bgcolor:"#0d0d1a",pb:4},children:[l.jsx(me,{sx:{background:"linear-gradient(135deg, #1a1200 0%, #2a1e00 50%, #1a1200 100%)",borderBottom:"2px solid #B8860B",py:2,mb:2},children:l.jsxs(xa,{maxWidth:"sm",children:[l.jsx(H,{variant:"h5",align:"center",sx:{color:"#FFD700",fontWeight:800,letterSpacing:3,textShadow:"0 2px 12px rgba(255,215,0,0.4)",fontFamily:"serif"},children:"BK AWARDS 2026"}),l.jsx(H,{variant:"caption",display:"block",align:"center",sx:{color:"#B8860B",letterSpacing:2,mt:.3},children:"Vision · Focus · Achievement"})]})}),l.jsxs(xa,{maxWidth:"sm",children:[l.jsxs(me,{ref:t,sx:{position:"relative",width:"100%",borderRadius:3,overflow:"hidden",boxShadow:"0 12px 40px rgba(0,0,0,0.8), 0 0 0 1px rgba(255,215,0,0.2)",userSelect:"none"},children:[l.jsx("img",{src:"/bk-awards-2026.jpg",alt:"BK Awards template",onLoad:R,style:{display:"block",width:"100%",height:"auto"},draggable:!1}),l.jsx(me,{sx:{position:"absolute",left:`${j}%`,top:`${O}%`,width:`${U}%`,aspectRatio:"1",borderRadius:"50%",overflow:"hidden"},children:c?l.jsxs(l.Fragment,{children:[l.jsx(me,{sx:{position:"absolute",inset:0,overflow:"hidden",borderRadius:"50%"},children:l.jsx("img",{src:c,alt:"your photo",style:{width:`${y1*100}%`,height:`${y1*100}%`,objectFit:"cover",position:"absolute",left:`${50+d.x}%`,top:`${50+d.y}%`,transform:"translate(-50%, -50%)",pointerEvents:"none"}})}),l.jsx(me,{onPointerDown:M,onPointerMove:ne,onPointerUp:ee,sx:{position:"absolute",inset:0,borderRadius:"50%",cursor:r.current?"grabbing":"grab",touchAction:"none","&:hover .move-hint":{opacity:1}},children:l.jsxs(me,{className:"move-hint",sx:{position:"absolute",inset:0,borderRadius:"50%",display:"flex",flexDirection:"column",alignItems:"center",justifyContent:"center",bgcolor:"rgba(0,0,0,0.35)",opacity:0,transition:"opacity 0.2s",color:"#FFD700",gap:.3},children:[l.jsx(hV,{sx:{fontSize:"1.6rem"}}),l.jsx(H,{variant:"caption",sx:{fontSize:"0.5rem",fontWeight:700,color:"#FFD700"},children:"Drag to reposition"})]})}),l.jsxs(me,{onClick:_,sx:{position:"absolute",bottom:"8%",left:"50%",transform:"translateX(-50%)",bgcolor:"rgba(0,0,0,0.65)",border:"1px solid rgba(255,215,0,0.6)",borderRadius:5,px:.8,py:.3,cursor:"pointer",display:"flex",alignItems:"center",gap:.3,"&:hover":{bgcolor:"rgba(0,0,0,0.85)"},zIndex:2},children:[l.jsx(PS,{sx:{fontSize:"0.75rem",color:"#FFD700"}}),l.jsx(H,{variant:"caption",sx:{fontSize:"0.5rem",color:"#FFD700",fontWeight:600,whiteSpace:"nowrap"},children:"Change"})]})]}):l.jsxs(me,{onClick:_,sx:{width:"100%",height:"100%",borderRadius:"50%",display:"flex",flexDirection:"column",alignItems:"center",justifyContent:"center",cursor:"pointer",color:"#fff",gap:.5,bgcolor:"rgba(0,0,0,0.4)",border:"2px dashed rgba(255,215,0,0.5)",transition:"background 0.2s","&:hover":{bgcolor:"rgba(0,0,0,0.6)"}},children:[l.jsx(PS,{sx:{fontSize:"2.2rem",color:"#FFD700",opacity:.9}}),l.jsx(H,{variant:"caption",sx:{fontWeight:700,fontSize:"0.55rem",color:"#FFD700",textAlign:"center",px:.5,lineHeight:1.3},children:"Tap to add photo"})]})}),x&&g.trim()&&l.jsx(me,{onPointerDown:F,onPointerMove:K,onPointerUp:N,sx:{position:"absolute",left:`${Y}%`,top:`${q}%`,transform:"translate(-50%, -50%)",cursor:"grab","&:active":{cursor:"grabbing"},display:"flex",alignItems:"center",gap:.4,px:1,py:.4,borderRadius:1,bgcolor:"rgba(0,0,0,0.2)",border:"1px dashed rgba(255,215,0,0.5)",touchAction:"none"},children:l.jsx(H,{sx:{color:"#FFD700",fontWeight:800,fontSize:Q[b],textShadow:"0 2px 10px rgba(0,0,0,0.95)",letterSpacing:1,whiteSpace:"nowrap",fontFamily:"serif"},children:g})})]}),l.jsxs(me,{sx:{mt:2,p:1.5,borderRadius:2,bgcolor:"rgba(255,215,0,0.05)",border:"1px solid rgba(255,215,0,0.15)"},children:[l.jsxs(te,{direction:"row",spacing:1,alignItems:"center",children:[l.jsx(Si,{onClick:()=>y(J=>!J),size:"small",sx:{color:x?"#FFD700":"#666",border:"1px solid",borderColor:x?"#FFD700":"#444",borderRadius:1.5,p:.8,flexShrink:0},children:l.jsx(kV,{fontSize:"small"})}),x&&l.jsxs(l.Fragment,{children:[l.jsx(Me,{size:"small",placeholder:"Your name / text…",value:g,onChange:J=>h(J.target.value),inputProps:{maxLength:60},sx:{flex:1,"& .MuiOutlinedInput-root":{color:"#fff","& fieldset":{borderColor:"rgba(255,215,0,0.4)"},"&:hover fieldset":{borderColor:"#FFD700"},"&.Mui-focused fieldset":{borderColor:"#FFD700"}},"& input::placeholder":{color:"#555"}}}),l.jsx(xL,{size:"small",children:[["small","S"],["medium","M"],["large","L"]].map(([J,fe])=>l.jsx(Ce,{onClick:()=>v(J),variant:b===J?"contained":"outlined",sx:b===J?{bgcolor:"#FFD700",color:"#000",fontWeight:700,borderColor:"#FFD700",minWidth:30,px:.5,"&:hover":{bgcolor:"#FFC300"}}:{borderColor:"#444",color:"#666",minWidth:30,px:.5,"&:hover":{borderColor:"#FFD700",color:"#FFD700"}},children:fe},J))}),l.jsx(Si,{size:"small",onClick:()=>{y(!1),h("")},sx:{color:"#555",border:"1px solid #333",borderRadius:1.5,p:.8,flexShrink:0},children:l.jsx(aV,{fontSize:"small"})})]})]}),l.jsx(Ce,{variant:"contained",fullWidth:!0,size:"large",startIcon:T?l.jsx(Ja,{size:18,color:"inherit"}):l.jsx(l0,{}),disabled:!c||T,onClick:z,sx:{mt:1.5,background:c?"linear-gradient(135deg, #B8860B 0%, #FFD700 50%, #B8860B 100%)":void 0,color:"#000",fontWeight:800,letterSpacing:1,fontSize:"1rem","&:hover":{background:"linear-gradient(135deg, #FFD700 0%, #FFC300 50%, #FFD700 100%)"},"&:disabled":{bgcolor:"#222",color:"#444"}},children:T?"Preparing…":"Download Photo"})]}),c&&l.jsx(H,{variant:"caption",align:"center",display:"block",sx:{mt:1.5,color:"#444",letterSpacing:.5},children:"Drag inside the circle to reposition · Drag text label to move it"})]}),l.jsx("input",{ref:e,type:"file",accept:"image/*",style:{display:"none"},onChange:P}),l.jsx(Tre,{open:p,imageSrc:s,onClose:()=>{m(!1),i(null)},onDone:A})]})}function _re({children:e}){return l.jsx(KH,{children:e})}const Are=[["/",l.jsx(RV,{}),cr.dashboard],["/students",l.jsx(bG,{}),cr.students],["/anchors",l.jsx(Cre,{}),cr.anchors],["/categories",l.jsx(CG,{}),cr.categories],["/stage",l.jsx(EG,{}),cr.stage],["/budget",l.jsx(RG,{}),cr.budget],["/responsibilities",l.jsx(AG,{}),cr.responsibilities],["/notifications",l.jsx(PG,{}),cr.notifications],["/admin",l.jsx(Mte,{}),cr.admin],["/whatsapp",l.jsx(Jte,{}),cr.whatsapp],["/super-admin/settings",l.jsx(tre,{}),cr.superAdminSettings]];function Pre(){return l.jsxs(G6,{theme:eV,children:[l.jsx(WL,{}),l.jsx(PW,{children:l.jsx(EH,{children:l.jsxs(zj,{children:[l.jsxs(Fj,{children:[l.jsx(Bo,{path:"/login",element:l.jsx(rV,{})}),l.jsx(Bo,{path:"/student-register",element:l.jsx(ok,{})}),l.jsx(Bo,{path:"/student-edit/:token",element:l.jsx(ok,{})}),l.jsx(Bo,{path:"/volunteer-register",element:l.jsx(lre,{})}),l.jsx(Bo,{path:"/anchor-register",element:l.jsx(bre,{})}),l.jsx(Bo,{path:"/anchor-edit/:token",element:l.jsx(yre,{})}),l.jsx(Bo,{path:"/photo-template",element:l.jsx(Rre,{})}),Are.map(([e,t,r])=>l.jsx(Bo,{path:e,element:l.jsx(RH,{permission:r,children:l.jsx(_re,{children:t})})},e))]}),l.jsx(JH,{})]})})})]})}YH();mg.createRoot(document.getElementById("root")).render(l.jsx(za.StrictMode,{children:l.jsx(Pre,{})}));

diff --git a/src/pages/PublicPhotoTemplatePage.jsx b/src/pages/PublicPhotoTemplatePage.jsx
@@ -25,9 +25,9 @@ import OpenWithIcon from '@mui/icons-material/OpenWith';
 
 // ── Template circle geometry (fractions of image dimensions) ──────────────
 // Adjust if the overlay drifts on a different template.
-const CIRCLE_CX   = 0.53;   // centre X as fraction of image width
-const CIRCLE_CY   = 0.50;   // centre Y as fraction of image height
-const CIRCLE_R    = 0.27;   // radius   as fraction of image width
+const CIRCLE_CX   = 0.555;  // centre X as fraction of image width
+const CIRCLE_CY   = 0.515;  // centre Y as fraction of image height
+const CIRCLE_R    = 0.295;  // radius   as fraction of image width
 const PHOTO_SCALE = 1.35;   // photo rendered at 135% of circle — room to pan
 
 const FONT_SIZE = { small: 0.030, medium: 0.044, large: 0.062 };

diff --git a/dist/index.html b/dist/index.html
@@ -9,7 +9,7 @@
     <link rel="apple-touch-icon" href="/icons/pwa-icon.svg" />
     <link rel="icon" href="/icons/pwa-icon.svg" type="image/svg+xml" />
     <title>Scholar Awards Event App</title>
-    <script type="module" crossorigin src="/assets/index-BpT2MfTH.js"></script>
+    <script type="module" crossorigin src="/assets/index-DNFqWoTc.js"></script>
   </head>
   <body>
     <div id="root"></div>
